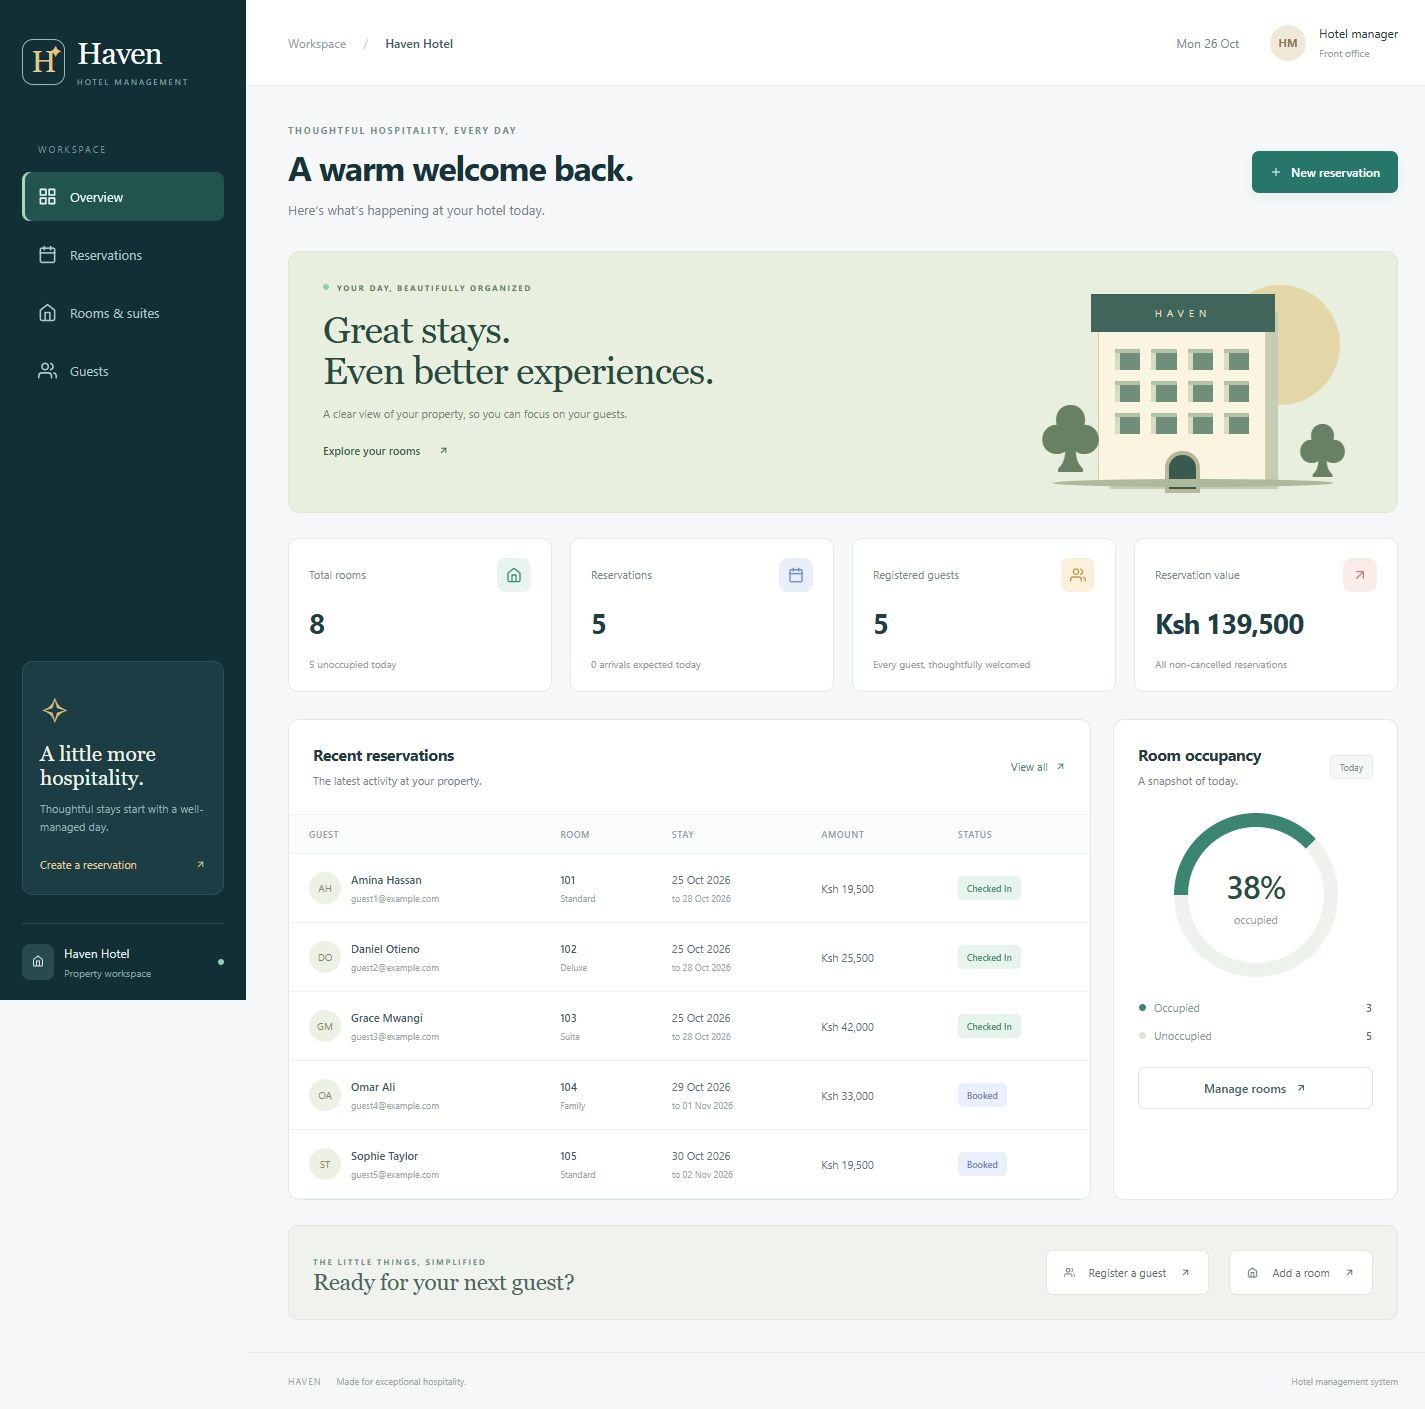
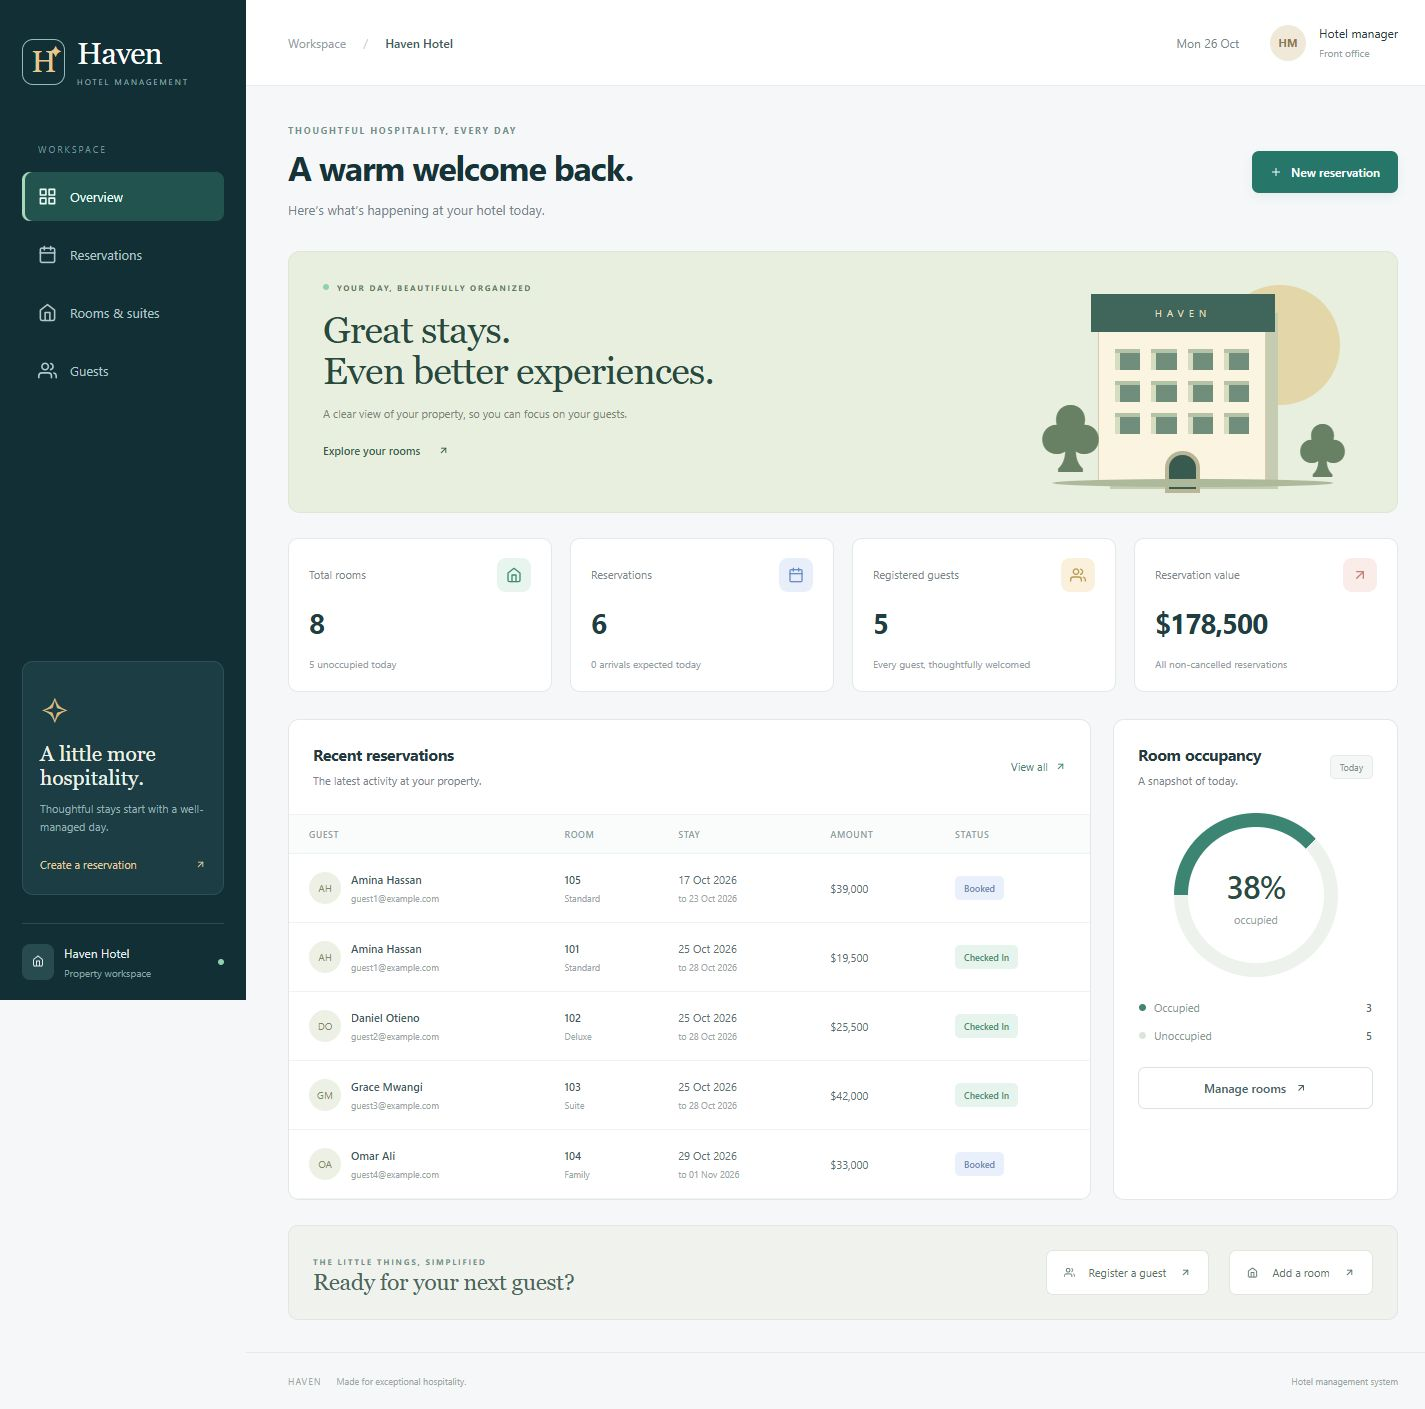
Change display currency to US dollars

diff --git a/frontend/src/App.jsx b/frontend/src/App.jsx
@@ -25,9 +25,9 @@ import {
 import "./index.css";
 const API = import.meta.env.VITE_API_URL || "/api";
 const money = (n) =>
-  new Intl.NumberFormat("en-KE", {
+  new Intl.NumberFormat("en-US", {
     style: "currency",
-    currency: "KES",
+    currency: "USD",
     maximumFractionDigits: 0,
   }).format(n || 0);
 const date = (d) =>
@@ -738,7 +738,7 @@ function Editor({ kind }) {
                       .filter(Boolean)
                       .map((v) => [v, v]),
                   )}
-                  {field("price", "Nightly rate (KES)", "number", {
+                  {field("price", "Nightly rate (USD)", "number", {
                     min: 1,
                     step: "0.01",
                   })}
@@ -969,3 +969,4 @@ export default function App() {
     </BrowserRouter>
   );
 }
+

diff --git a/README.md b/README.md
@@ -44,7 +44,7 @@ Open http://localhost:5000. Express serves the built frontend, supports browser 
 
 This is a single-property management app for a trusted local environment. There is no user authentication, payment processing, or public guest booking portal. Add authentication and authorization before exposing operational guest data to the internet. File storage and the reservation write queue are designed for one server process; a multi-instance deployment requires a database-level reservation locking strategy.
 
-Room availability is based on overlapping reservation dates. Room status shows occupancy today and is calculated from reservations. The occupancy metric counts active reservations covering today, rather than claiming that a future booking occupies a room now. Reservation values represent bookings, not collected payments. Currency is KES. Existing reservation totals remain fixed when only the status or guest changes; changing room or dates recalculates the amount.
+Room availability is based on overlapping reservation dates. Room status shows occupancy today and is calculated from reservations. The occupancy metric counts active reservations covering today, rather than claiming that a future booking occupies a room now. Reservation values represent bookings, not collected payments. Currency is USD (US dollars). Changing the display currency does not convert existing numeric amounts. Existing reservation totals remain fixed when only the status or guest changes; changing room or dates recalculates the amount.
 
 ## Verification
 
@@ -61,5 +61,6 @@ The API integration test uses an isolated temporary file, covering room/guest CR
 `GET /api/health` reports server readiness. `/api/rooms`, `/api/customers`, and `/api/bookings` support GET and POST; `/:id` supports GET, PUT, and DELETE. Booking responses include their associated guest and room.
 
 No credentials, guest records, node_modules, or generated build files are included in the repository.
+
 
 
